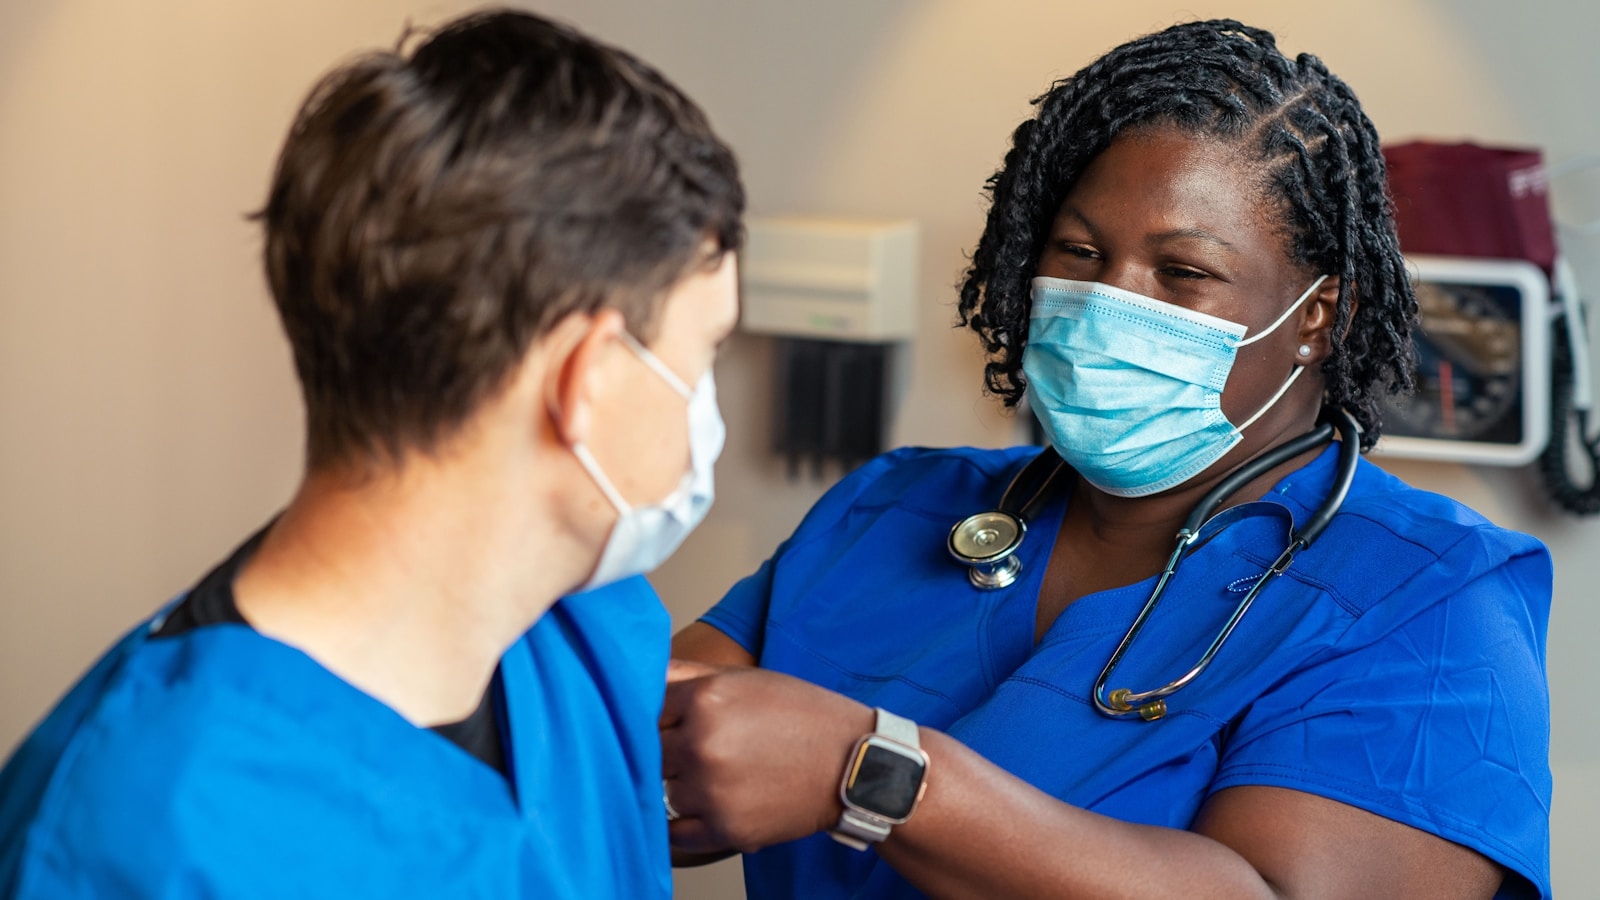
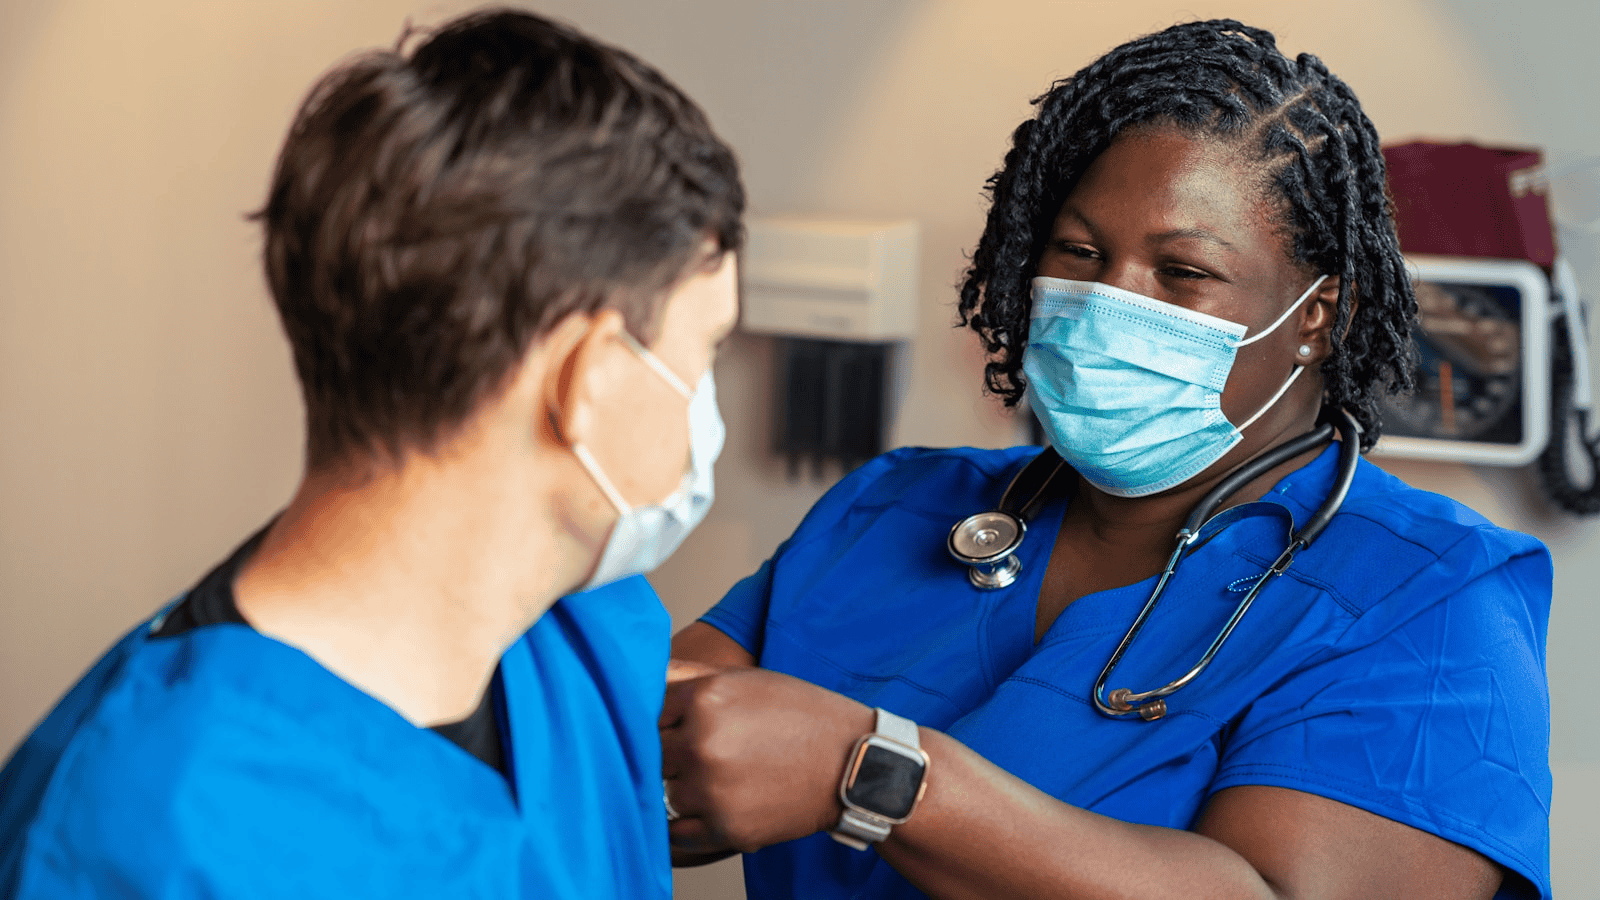
change image jpg

diff --git a/src/components/WhyGive.jsx b/src/components/WhyGive.jsx
@@ -1,6 +1,6 @@
 import React from "react";
 import { Ambulance, Baby, HeartPulse, Hourglass } from "lucide-react";
-import bloodimage from "../assets/blood.jpg";
+import bloodimage from "../assets/blood.png";
 import { useInView } from "../hooks/useInView";
 
 const REASONS = [
